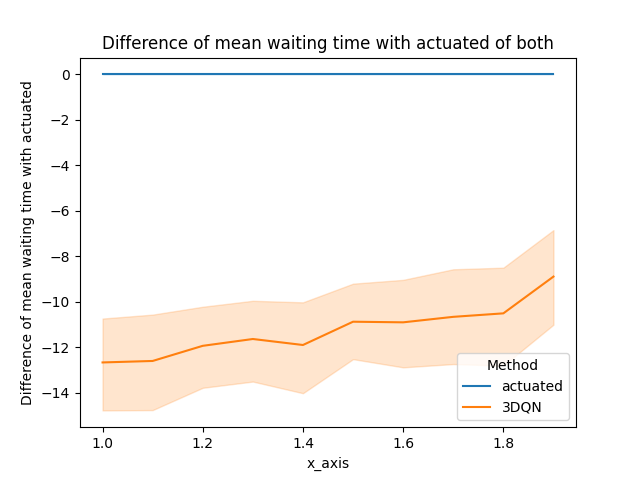
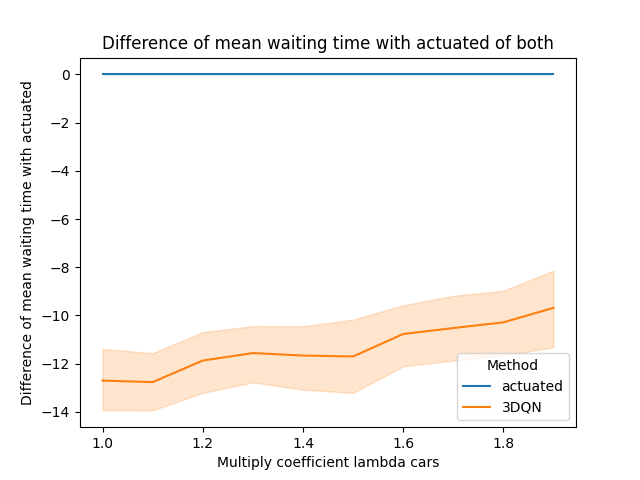
sum wt is working for full testing

diff --git a/graphs.py b/graphs.py
@@ -46,9 +46,9 @@ def plot_and_save_bar(data, file_title, labels=None, sub_folders=""):
     plt.savefig("images/"+sub_folders+file_title+".png")
 
 
-def plot_data(data, vehicle_type, y, file_title, sub_folders=""):
+def plot_data(data, vehicle_type, x_axis_label, y, file_title, sub_folders="", estimator="mean"):
     plt.clf()
-    fig = sns.lineplot(data[data["Vehicle type"]==vehicle_type], x="x_axis", y=y, hue="Method").get_figure()
+    fig = sns.lineplot(data[data["Vehicle type"]==vehicle_type], x=x_axis_label, y=y, hue="Method", estimator=estimator).get_figure()
     plt.title(y+" of "+vehicle_type)
     plt.savefig("images/"+sub_folders+file_title)
 
@@ -66,6 +66,7 @@ def cut_tab_scenarios(tab_scenarios):
 
 def add_scenario_data_to_df(tab_scenarios, tab_scenarios_actuated, label, x_axis, columns):
     data = pd.DataFrame(columns=columns)
+    sum_waiting_time = 0
     for num_simu in range(len(tab_scenarios)):
         sum_travel_time_bikes, sum_waiting_time_bikes, num_bikes = compute_data(tab_scenarios[num_simu]["bikes"])
         sum_travel_time_cars, sum_waiting_time_cars, num_cars = compute_data(tab_scenarios[num_simu]["cars"])
@@ -88,12 +89,14 @@ def add_scenario_data_to_df(tab_scenarios, tab_scenarios_actuated, label, x_axis
         else:
             x = x_axis
 
-        data = pd.concat([data, pd.DataFrame([[label, "bikes", x, mean_waiting_time_bikes, mean_waiting_time_bikes-mean_waiting_time_bikes_actuated, sum_travel_time_bikes]], columns=columns)], ignore_index=True)
-        data = pd.concat([data, pd.DataFrame([[label, "cars", x, mean_waiting_time_cars, mean_waiting_time_cars-mean_waiting_time_cars_actuated, sum_travel_time_cars]], columns=columns)], ignore_index=True)
+        data = pd.concat([data, pd.DataFrame([[label, "bikes", x, mean_waiting_time_bikes, mean_waiting_time_bikes-mean_waiting_time_bikes_actuated]], columns=columns)], ignore_index=True)
+        data = pd.concat([data, pd.DataFrame([[label, "cars", x, mean_waiting_time_cars, mean_waiting_time_cars-mean_waiting_time_cars_actuated]], columns=columns)], ignore_index=True)
         data = pd.concat([data, pd.DataFrame([[label, "both", x, mean_waiting_time_bikes+mean_waiting_time_cars,\
-        (mean_waiting_time_bikes+mean_waiting_time_cars)-(mean_waiting_time_bikes_actuated+mean_waiting_time_cars_actuated), sum_travel_time_bikes+sum_travel_time_cars]], columns=columns)], ignore_index=True)
-    
-    return data
+        (mean_waiting_time_bikes+mean_waiting_time_cars)-(mean_waiting_time_bikes_actuated+mean_waiting_time_cars_actuated)]], columns=columns)], ignore_index=True)
+
+        sum_waiting_time += sum_waiting_time_bikes+sum_waiting_time_cars
+
+    return data, sum_waiting_time
 
 if __name__ == "__main__": 
 
@@ -110,13 +113,16 @@ if __name__ == "__main__":
     if(args.full_test):
         sub_folders = "full_test/"
         start_coeff_car_lambda = 1
-        num_scenario_same_param = 5
+        num_scenario_same_param = 10
         coeff_car_lambda = start_coeff_car_lambda
+        x_axis_label = "Multiply coefficient lambda cars"
         
     elif(args.test):
         sub_folders = "test/"
+        x_axis_label = "Hours"
     else:   
         sub_folders = "train/"
+        x_axis_label = "Simulations"
     
 
     labels = {}
@@ -126,31 +132,45 @@ if __name__ == "__main__":
     list_tab_scenarios_actuated = []
     list_tab_scenarios = []
 
-    columns=["Method", "Vehicle type", "x_axis", "Mean waiting time", "Difference of mean waiting time with actuated", "Sum of waiting times"]
+
+    columns=["Method", "Vehicle type", x_axis_label, "Mean waiting time", "Difference of mean waiting time with actuated"]
     data = pd.DataFrame(columns=columns)
+
+    if(args.full_test or not args.test):
+        columns_sum=["Method", "Vehicle type", x_axis_label, "Sum of waiting times"]
+        data_sum = pd.DataFrame(columns=columns_sum)
 
     if os.path.exists("files/"+sub_folders+"actuated_scenarios.tab"):
         with open("files/"+sub_folders+"actuated_scenarios.tab", 'rb') as infile:
             tab_scenarios_actuated = pickle.load(infile)
 
 
-        if(args.test and len(tab_scenarios_actuated) == 1 or args.full_test):
-            for num_scenario in range(len(tab_scenarios_actuated)):
+        for num_scenario in range(len(tab_scenarios_actuated)):
 
-                tab_actuated = tab_scenarios_actuated[num_scenario]
+            tab_actuated = tab_scenarios_actuated[num_scenario]
 
-                if(args.full_test and num_scenario > 0 and num_scenario%num_scenario_same_param == 0):
-                    coeff_car_lambda += 0.1
+            if(args.full_test and num_scenario > 0 and num_scenario%num_scenario_same_param == 0):
+                coeff_car_lambda += 0.1
 
-                if(args.full_test):
-                    x_axis = coeff_car_lambda
-                else:
-                    x_axis = None
+            if(args.full_test):
+                x_axis = coeff_car_lambda
+            else:
+                x_axis = None
 
+            sum_travel_time_bikes, sum_waiting_time_bikes, num_bikes = compute_data(tab_actuated["bikes"])
+            sum_travel_time_cars, sum_waiting_time_cars, num_cars = compute_data(tab_actuated["cars"])
+
+            if(args.test and len(tab_scenarios_actuated) == 1 or args.full_test):
                 tab_actuated = cut_tab_scenarios(tab_actuated)
-                
-                data = pd.concat([data, add_scenario_data_to_df(tab_actuated, tab_actuated, "actuated", x_axis, columns)], ignore_index=True)
-                list_tab_scenarios_actuated.append(tab_actuated)
+
+            new_data, sum_waiting_time = add_scenario_data_to_df(tab_actuated, tab_actuated, "actuated", x_axis, columns))
+
+            data = pd.concat([data, new_data], ignore_index=True)
+
+            if(args.full_test or not args.test):
+                data_sum = pd.concat([data_sum, pd.DataFrame([["actuated", "both", x_axis, sum_waiting_time]], columns=columns_sum)])
+            
+            list_tab_scenarios_actuated.append(tab_actuated)
 
     if(not args.full_test):
         sub_folders += str(args.alpha)+"/"
@@ -199,13 +219,14 @@ if __name__ == "__main__":
         else:
             tab_scenarios_actuated = tab_scenarios
 
+        new_data, sum_waiting_time = add_scenario_data_to_df(tab_scenarios, tab_scenarios_actuated, label, x_axis, columns)
+        data = pd.concat([data, new_data], ignore_index=True)
 
-        data = pd.concat([data, add_scenario_data_to_df(tab_scenarios, tab_scenarios_actuated, label, x_axis, columns)], ignore_index=True)
+        if(args.full_test or not args.test):
+            data_sum = pd.concat([data_sum, pd.DataFrame([[label, "both", x_axis, sum_waiting_time]], columns=columns_sum)])
 
         i+=1
     
-
-    print(data)
 
     if(not os.path.exists("images/"+sub_folders)):
         os.makedirs("images/"+sub_folders)
@@ -214,12 +235,13 @@ if __name__ == "__main__":
         plot_data([tab_losses], "evolution_losses.png", "Loss Evolution",labels, ["Simulations", "Loss"], sub_folders)
 
 
-    plot_data(data, "cars", "Mean waiting time", "cars_evolution_mean_waiting_time.png", sub_folders)
-    plot_data(data, "bikes", "Mean waiting time", "bikes_evolution_mean_waiting_time.png", sub_folders)
-    plot_data(data, "bikes" , "Difference of mean waiting time with actuated", "bikes_diff_mean_waiting_time.png", sub_folders)
-    plot_data(data, "cars", "Difference of mean waiting time with actuated", "car_diff_mean_waiting_time.png", sub_folders)
+    plot_data(data, "cars", x_axis_label, "Mean waiting time", "cars_evolution_mean_waiting_time.png", sub_folders)
+    plot_data(data, "bikes", x_axis_label, "Mean waiting time", "bikes_evolution_mean_waiting_time.png", sub_folders)
+    plot_data(data, "bikes", x_axis_label, "Difference of mean waiting time with actuated", "bikes_diff_mean_waiting_time.png", sub_folders)
+    plot_data(data, "cars", x_axis_label, "Difference of mean waiting time with actuated", "car_diff_mean_waiting_time.png", sub_folders)
 
-    plot_data(data, "both", "Mean waiting time", "evolution_mean_waiting_time.png", sub_folders)
-    plot_data(data, "both", "Difference of mean waiting time with actuated", "diff_mean_waiting_time.png", sub_folders)
+    plot_data(data, "both", x_axis_label, "Mean waiting time", "evolution_mean_waiting_time.png", sub_folders)
+    plot_data(data, "both", x_axis_label, "Difference of mean waiting time with actuated", "diff_mean_waiting_time.png", sub_folders)
 
-    plot_data(data, "both", "Sum of waiting times", "sum_waiting_times.png", sub_folders)
+    if(args.full_test or not args.test):
+        plot_data(data_sum, "both", x_axis_label, "Sum of waiting times", "sum_waiting_times.png", sub_folders)

diff --git a/main.py b/main.py
@@ -113,7 +113,7 @@ if __name__ == "__main__":
     if(args.full_test):
         args.test = True
         args.real_data = True
-        num_simu_same_param = 5
+        num_simu_same_param = 10
 
     list_edges_name = ["NS", "SN", "EW", "WE"]
 
